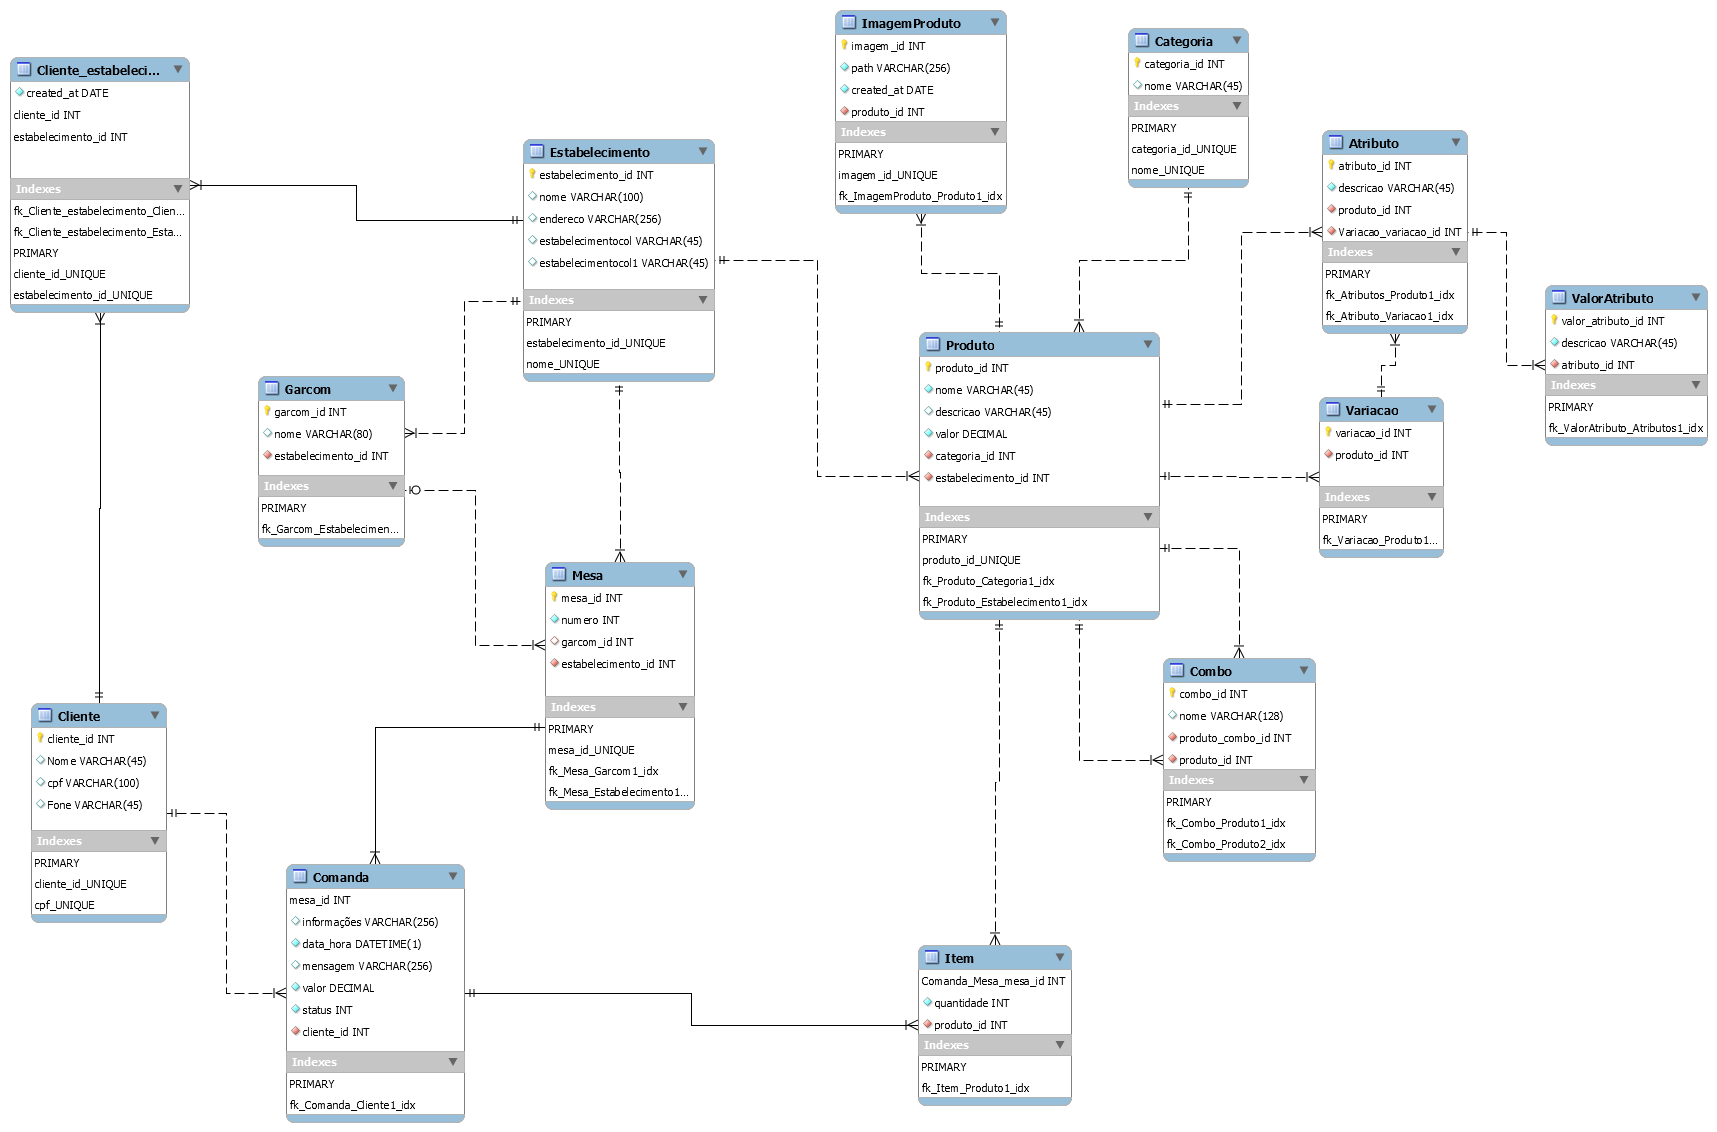
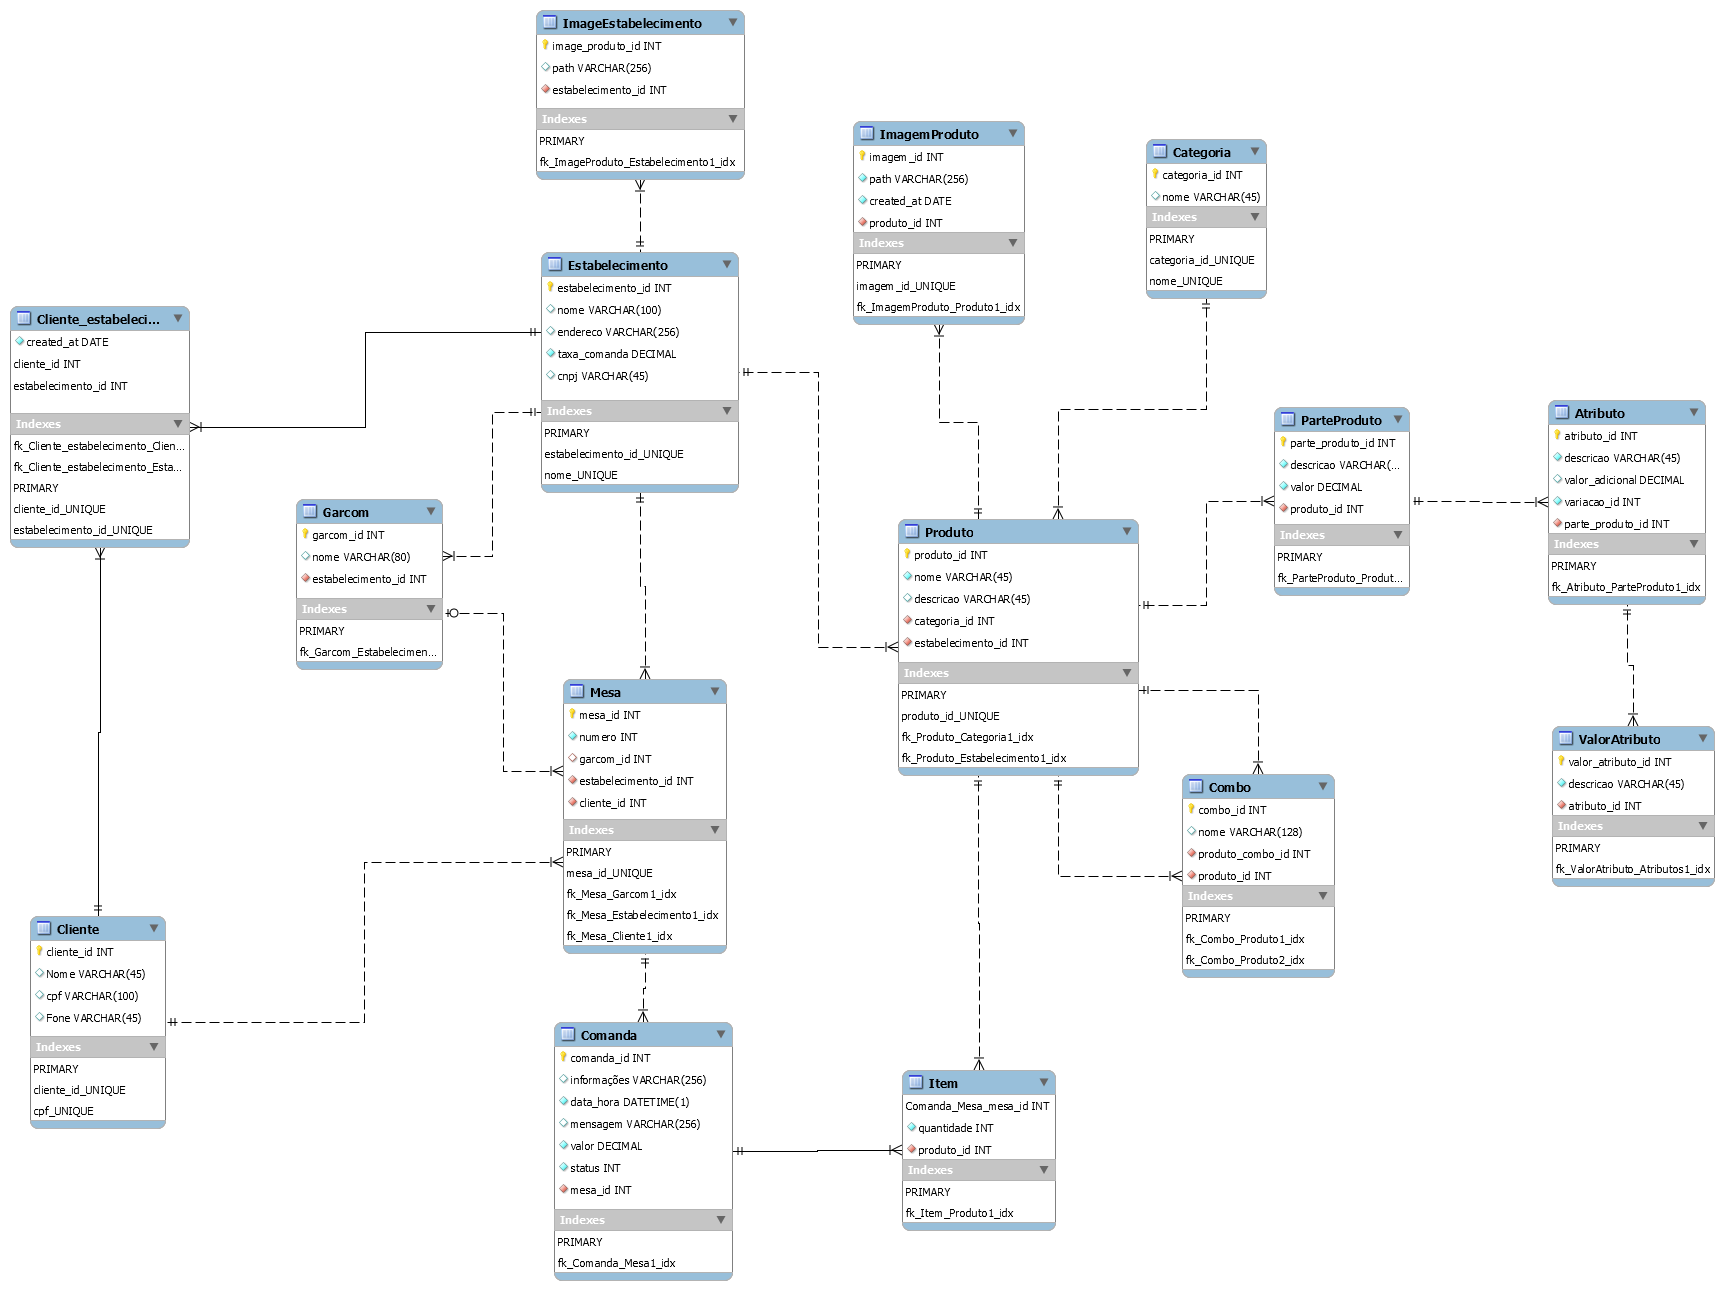
update db model and requisites

diff --git a/README.md b/README.md
@@ -56,9 +56,9 @@ Em breve, mais atualizações...
 
 <img src="model_latest.png" alt="" width=1024 height=675>
 
-<h2>Definições de Requisitos</h2>
-<h3>Requisistos Funcionais</h3>
-- Estabelecimento
+# Definições de Requisitos
+
+- Requisistos Funcionais Estabelecimento
     
     - RF01 Fazer cadastro na plataforma.
     O estabelecimento deverá poder fazer seu cadastro na plataforma TMenu, informando seus dados:
@@ -71,6 +71,14 @@ Em breve, mais atualizações...
     
     - RF04 O estabelecimento deve poder cadastrar categorias de produtos de acordo com seu negócio assim como editar e excluí-las conforme sua necessidade.
     
-    - RF05 O estabelecimento deve poder cadastrar produtos de acordo com seu modelo de negócio podendo editar e excluir conforme sua necessidade, aos produtos deve ser possível atribuir categorias, atributos, variações e criar combos com dois ou mais produtos distintos, assim como com suas possíveis variações.
+    - RF05 O estabelecimento deve poder cadastrar produtos de acordo com seu modelo de negócio podendo editar e excluir conforme sua necessidade, aos produtos deve ser possível atribuir categorias, atributos e criar combos com dois ou mais produtos distintos, assim como com suas possíveis variações.
     
     - RF06 O estabelecimento deve poder cadastrar mesas, que terão uma numeração especifica e um link de acesso ao menu. Cada mesa pode ou não se relacionar com um funcionário (garçons). Em cada mesa pode ser realizado um ou mais pedidos simultâneos. 
+
+    - RF07 O estabelecimento deve poder gerar relatórios de operações realizadas na plaforma com filtros que mostrem a movimentação por periodo, por mesa e por cliente.
+    
+- Requisistos Funcionais Cliente do estabelecimento
+
+
+- Requisistos Funcionais Administração
+
